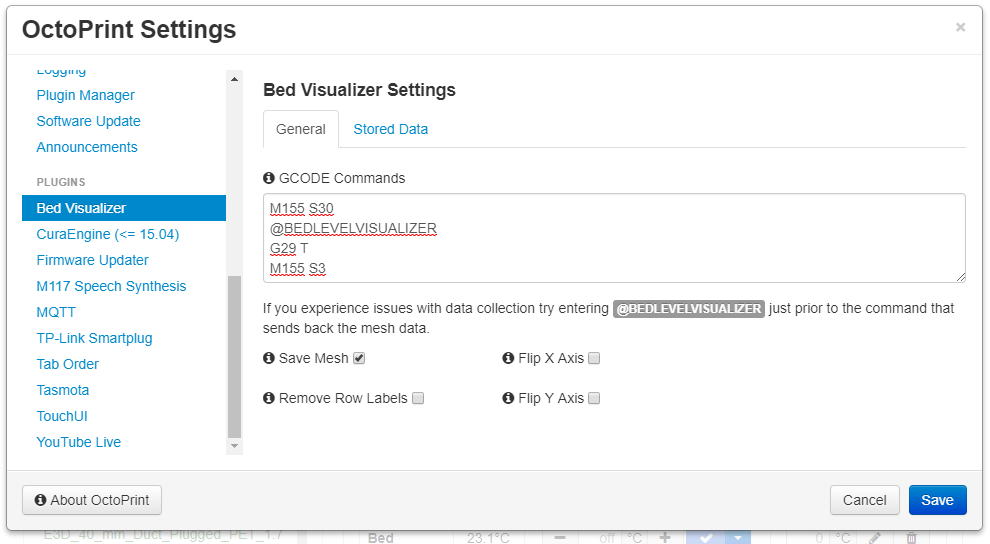
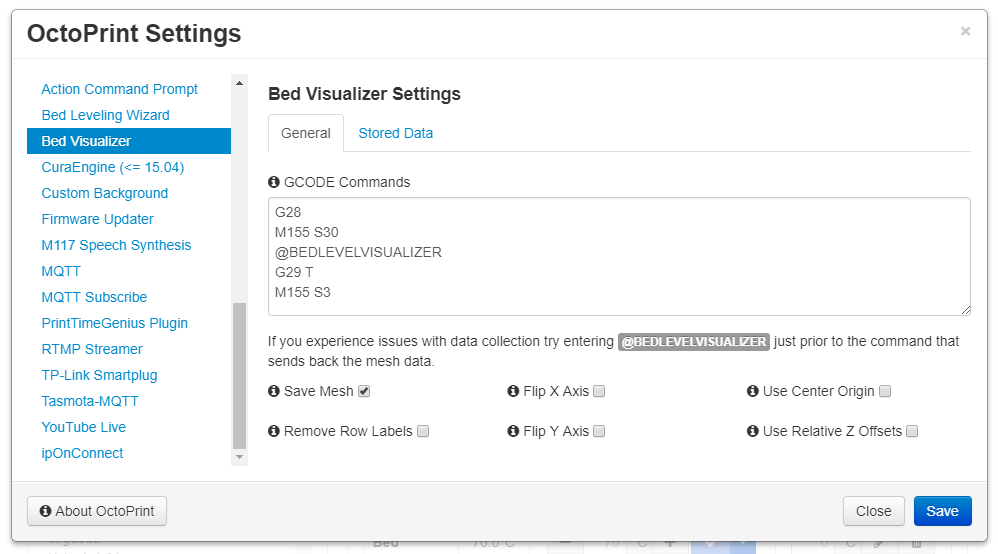
0.1.5

diff --git a/octoprint_bedlevelvisualizer/static/js/bedlevelvisualizer.js b/octoprint_bedlevelvisualizer/static/js/bedlevelvisualizer.js
@@ -48,20 +48,22 @@ $(function () {
 				if (mesh_data.mesh.length > 0) {
 					var x_data = [];
 					var y_data = [];
-					for(i = mesh_data.bed.x_min;i <= mesh_data.bed.x_max;i += mesh_data.bed.x_max/(mesh_data.mesh[0].length - 1)){
-						if(mesh_data.bed.type == "circular"){
-							x_data.push(Math.round((i - mesh_data.bed.x_max/2)));
+					
+					for(var i = 0;i <= (mesh_data.mesh[0].length - 1);i++){
+						if((mesh_data.bed.type == "circular") || self.settingsViewModel.settings.plugins.bedlevelvisualizer.use_center_origin()){
+							x_data.push(Math.round(mesh_data.bed.x_min - (mesh_data.bed.x_max/2)+i/(mesh_data.mesh[0].length - 1)*(mesh_data.bed.x_max - mesh_data.bed.x_min)));
 						} else {
-							x_data.push(Math.round(i));
+							x_data.push(Math.round(mesh_data.bed.x_min+i/(mesh_data.mesh[0].length - 1)*(mesh_data.bed.x_max - mesh_data.bed.x_min)));
 						}
-					}
-					for(i = mesh_data.bed.y_min;i <= mesh_data.bed.y_max;i += mesh_data.bed.y_max/(mesh_data.mesh.length -1)){
-						if(mesh_data.bed.type == "circular"){
-							y_data.push(Math.round((i - mesh_data.bed.y_max/2)));
+					};
+					
+					for(var i = 0;i <= (mesh_data.mesh.length - 1);i++){
+						if((mesh_data.bed.type == "circular") || self.settingsViewModel.settings.plugins.bedlevelvisualizer.use_center_origin()){
+							y_data.push(Math.round(mesh_data.bed.y_min - (mesh_data.bed.y_max/2)+i/(mesh_data.mesh.length - 1)*(mesh_data.bed.y_max - mesh_data.bed.y_min)));
 						} else {
-							y_data.push(Math.round(i));
+							y_data.push(Math.round(mesh_data.bed.y_min+i/(mesh_data.mesh.length - 1)*(mesh_data.bed.y_max - mesh_data.bed.y_min)));
 						}
-					}
+					};
 					
 					self.drawMesh(mesh_data.mesh,true,x_data,y_data,mesh_data.bed.z_max);
 				}

diff --git a/octoprint_bedlevelvisualizer/__init__.py b/octoprint_bedlevelvisualizer/__init__.py
@@ -28,7 +28,9 @@ class bedlevelvisualizer(octoprint.plugin.StartupPlugin,
 			mesh_timestamp="",
 			flipX=False,
 			flipY=False,
-			stripFirst=False)
+			stripFirst=False,
+			use_center_origin=False,
+			use_relative_offsets=False)
 
 	##~~ StartupPlugin
 	def on_after_startup(self):
@@ -131,6 +133,14 @@ class bedlevelvisualizer(octoprint.plugin.StartupPlugin,
 			self.processing = False
 			if self._settings.get(["flipY"]):
 				self.mesh.reverse()
+				
+			if self._settings.get(["use_relative_offsets"]):
+				self.mesh = np.array(self.mesh)
+				if self._settings.get(["use_center_origin"]):
+					self.mesh = np.subtract(self.mesh, self.mesh[len(self.mesh[0])/2,len(self.mesh)/2], dtype=np.float, casting='unsafe').tolist()
+				else:
+					self.mesh = np.subtract(self.mesh, self.mesh[0,0], dtype=np.float, casting='unsafe').tolist()
+			
 			self._plugin_manager.send_plugin_message(self._identifier, dict(mesh=self.mesh,bed=bed))
 		
 		return line

diff --git a/setup.py b/setup.py
@@ -14,7 +14,7 @@ plugin_package = "octoprint_bedlevelvisualizer"
 plugin_name = "Bed Visualizer"
 
 # The plugin's version. Can be overwritten within OctoPrint's internal data via __plugin_version__ in the plugin module
-plugin_version = "0.1.4"
+plugin_version = "0.1.5"
 
 # The plugin's description. Can be overwritten within OctoPrint's internal data via __plugin_description__ in the plugin
 # module

diff --git a/README.md b/README.md
@@ -38,6 +38,7 @@ into this
 ![screenshot](screenshot.png)
 
 ## Known Issues
+  - Since version 0.1.3 there is a python dependency on numpy.  As a result; if you don't already have numpy the install can take in excess of 30 minutes to complete on a pi. Just be patient and let it run and eventually the plugin install will finish.
   - If you have Marlin's Auto Temperature Reporting Feature enabled you will want to have M155 S30 and M155 S3 surrounding your G29 command, see settings screenshot, otherwise the collected data will be tainted.
   - ~~Currently there is a conflict with the TempsGraph plugin.  If you have this plugin installed you will receive an error that Plotyle.react is not a function.  There is a version update pending on that plugin to resolve this issue, just waiting on the author to release.~~ Resolved with TempsGraph release [0.3.3](https://github.com/1r0b1n0/OctoPrint-Tempsgraph/releases/tag/0.3.3).
 
@@ -69,8 +70,19 @@ or manually using this URL:
 
 ## Changelog
 
+**[0.1.5]** (09/03/2018)
+
+**Added**
+  - Option to make center of bed the origin point per request.  Helpful when using a fixed center leveling system as described [here](https://github.com/PrusaOwners/prusaowners/wiki/Bed_Leveling_without_Wave_Springs).
+  - Option to make measured offsets relative to origin position, related to above addition but could be useful elsewhere.
+  
+**Changed**
+  - X/Y axis calculations to resolve bug discovered during above changes where if your leveling grid was based on an odd number of probe points the maximum perimeters were getting dropped due to rounding errors.
+  
 **[0.1.4]** (08/06/2018)
-  - Fixed issue introduced with previous updates.
+
+**Fixed**
+  - Issue introduced with previous update that was causing some leveling reports to not be identified correctly.
 
 **[0.1.3]** (08/05/2018)
 
@@ -168,6 +180,8 @@ or manually using this URL:
 
 **Initial Release**
 
+[0.1.5]: https://github.com/jneilliii/OctoPrint-BedLevelVisualizer/tree/0.1.5
+[0.1.4]: https://github.com/jneilliii/OctoPrint-BedLevelVisualizer/tree/0.1.4
 [0.1.3]: https://github.com/jneilliii/OctoPrint-BedLevelVisualizer/tree/0.1.3
 [0.1.2]: https://github.com/jneilliii/OctoPrint-BedLevelVisualizer/tree/0.1.2
 [0.1.1]: https://github.com/jneilliii/OctoPrint-BedLevelVisualizer/tree/0.1.1
